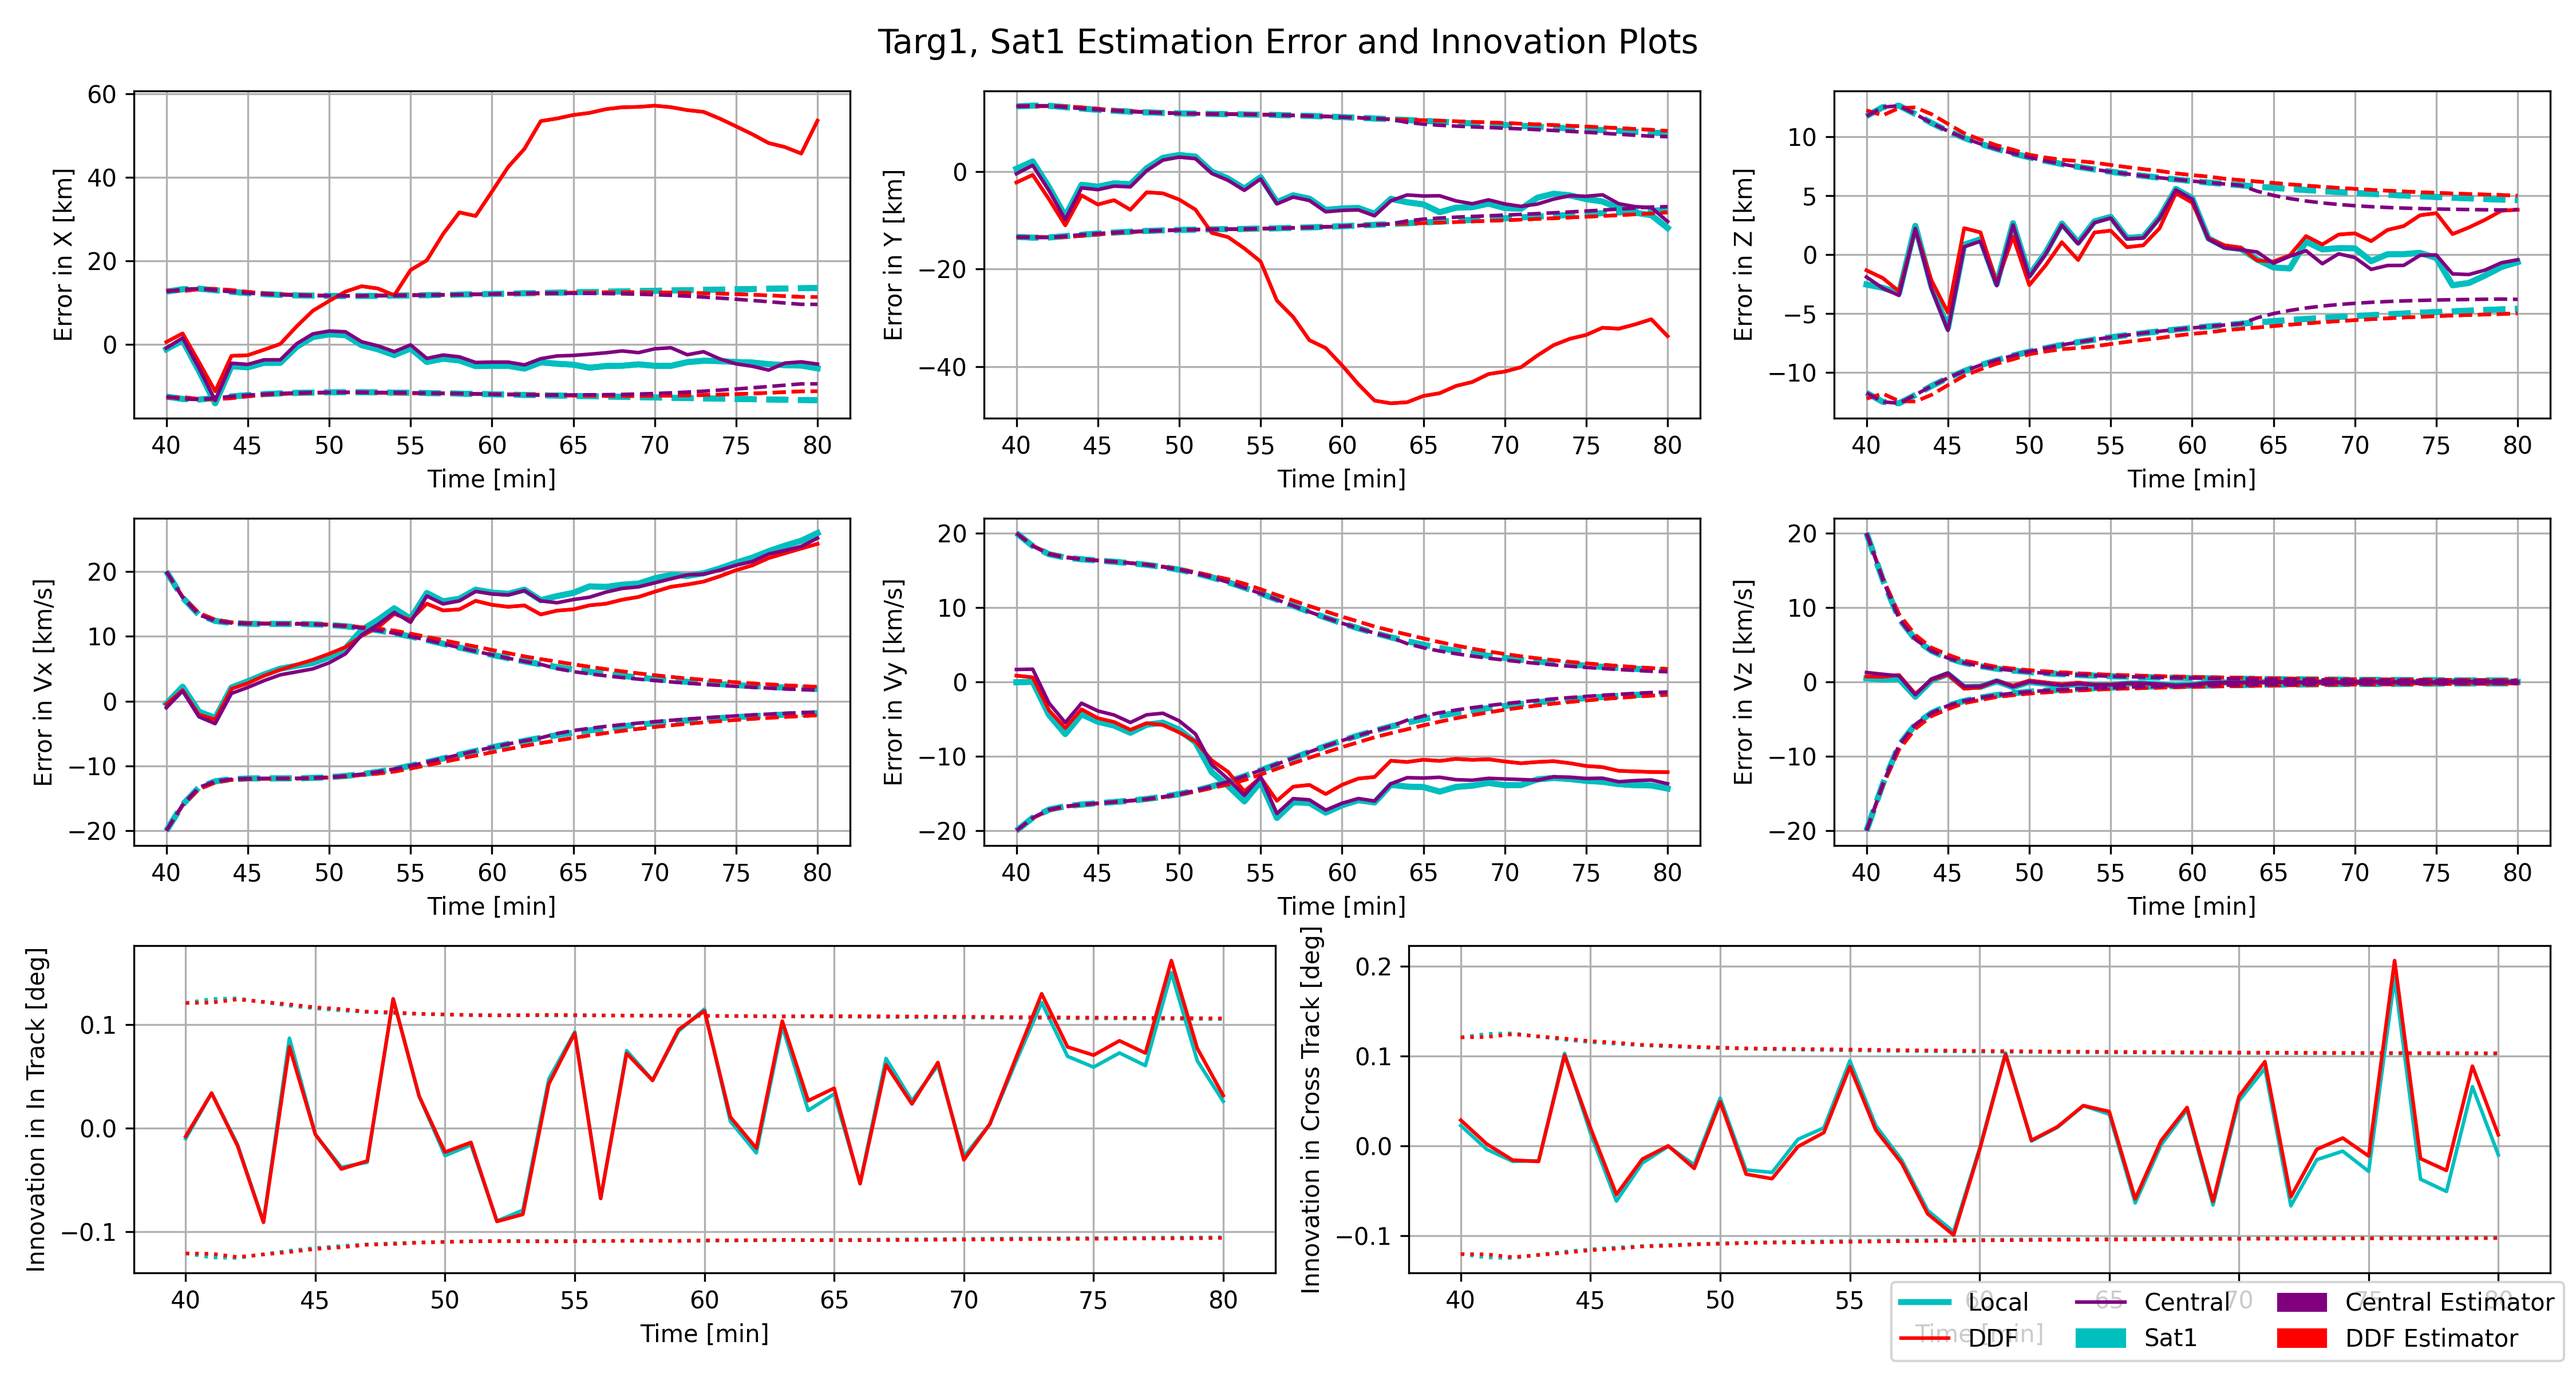
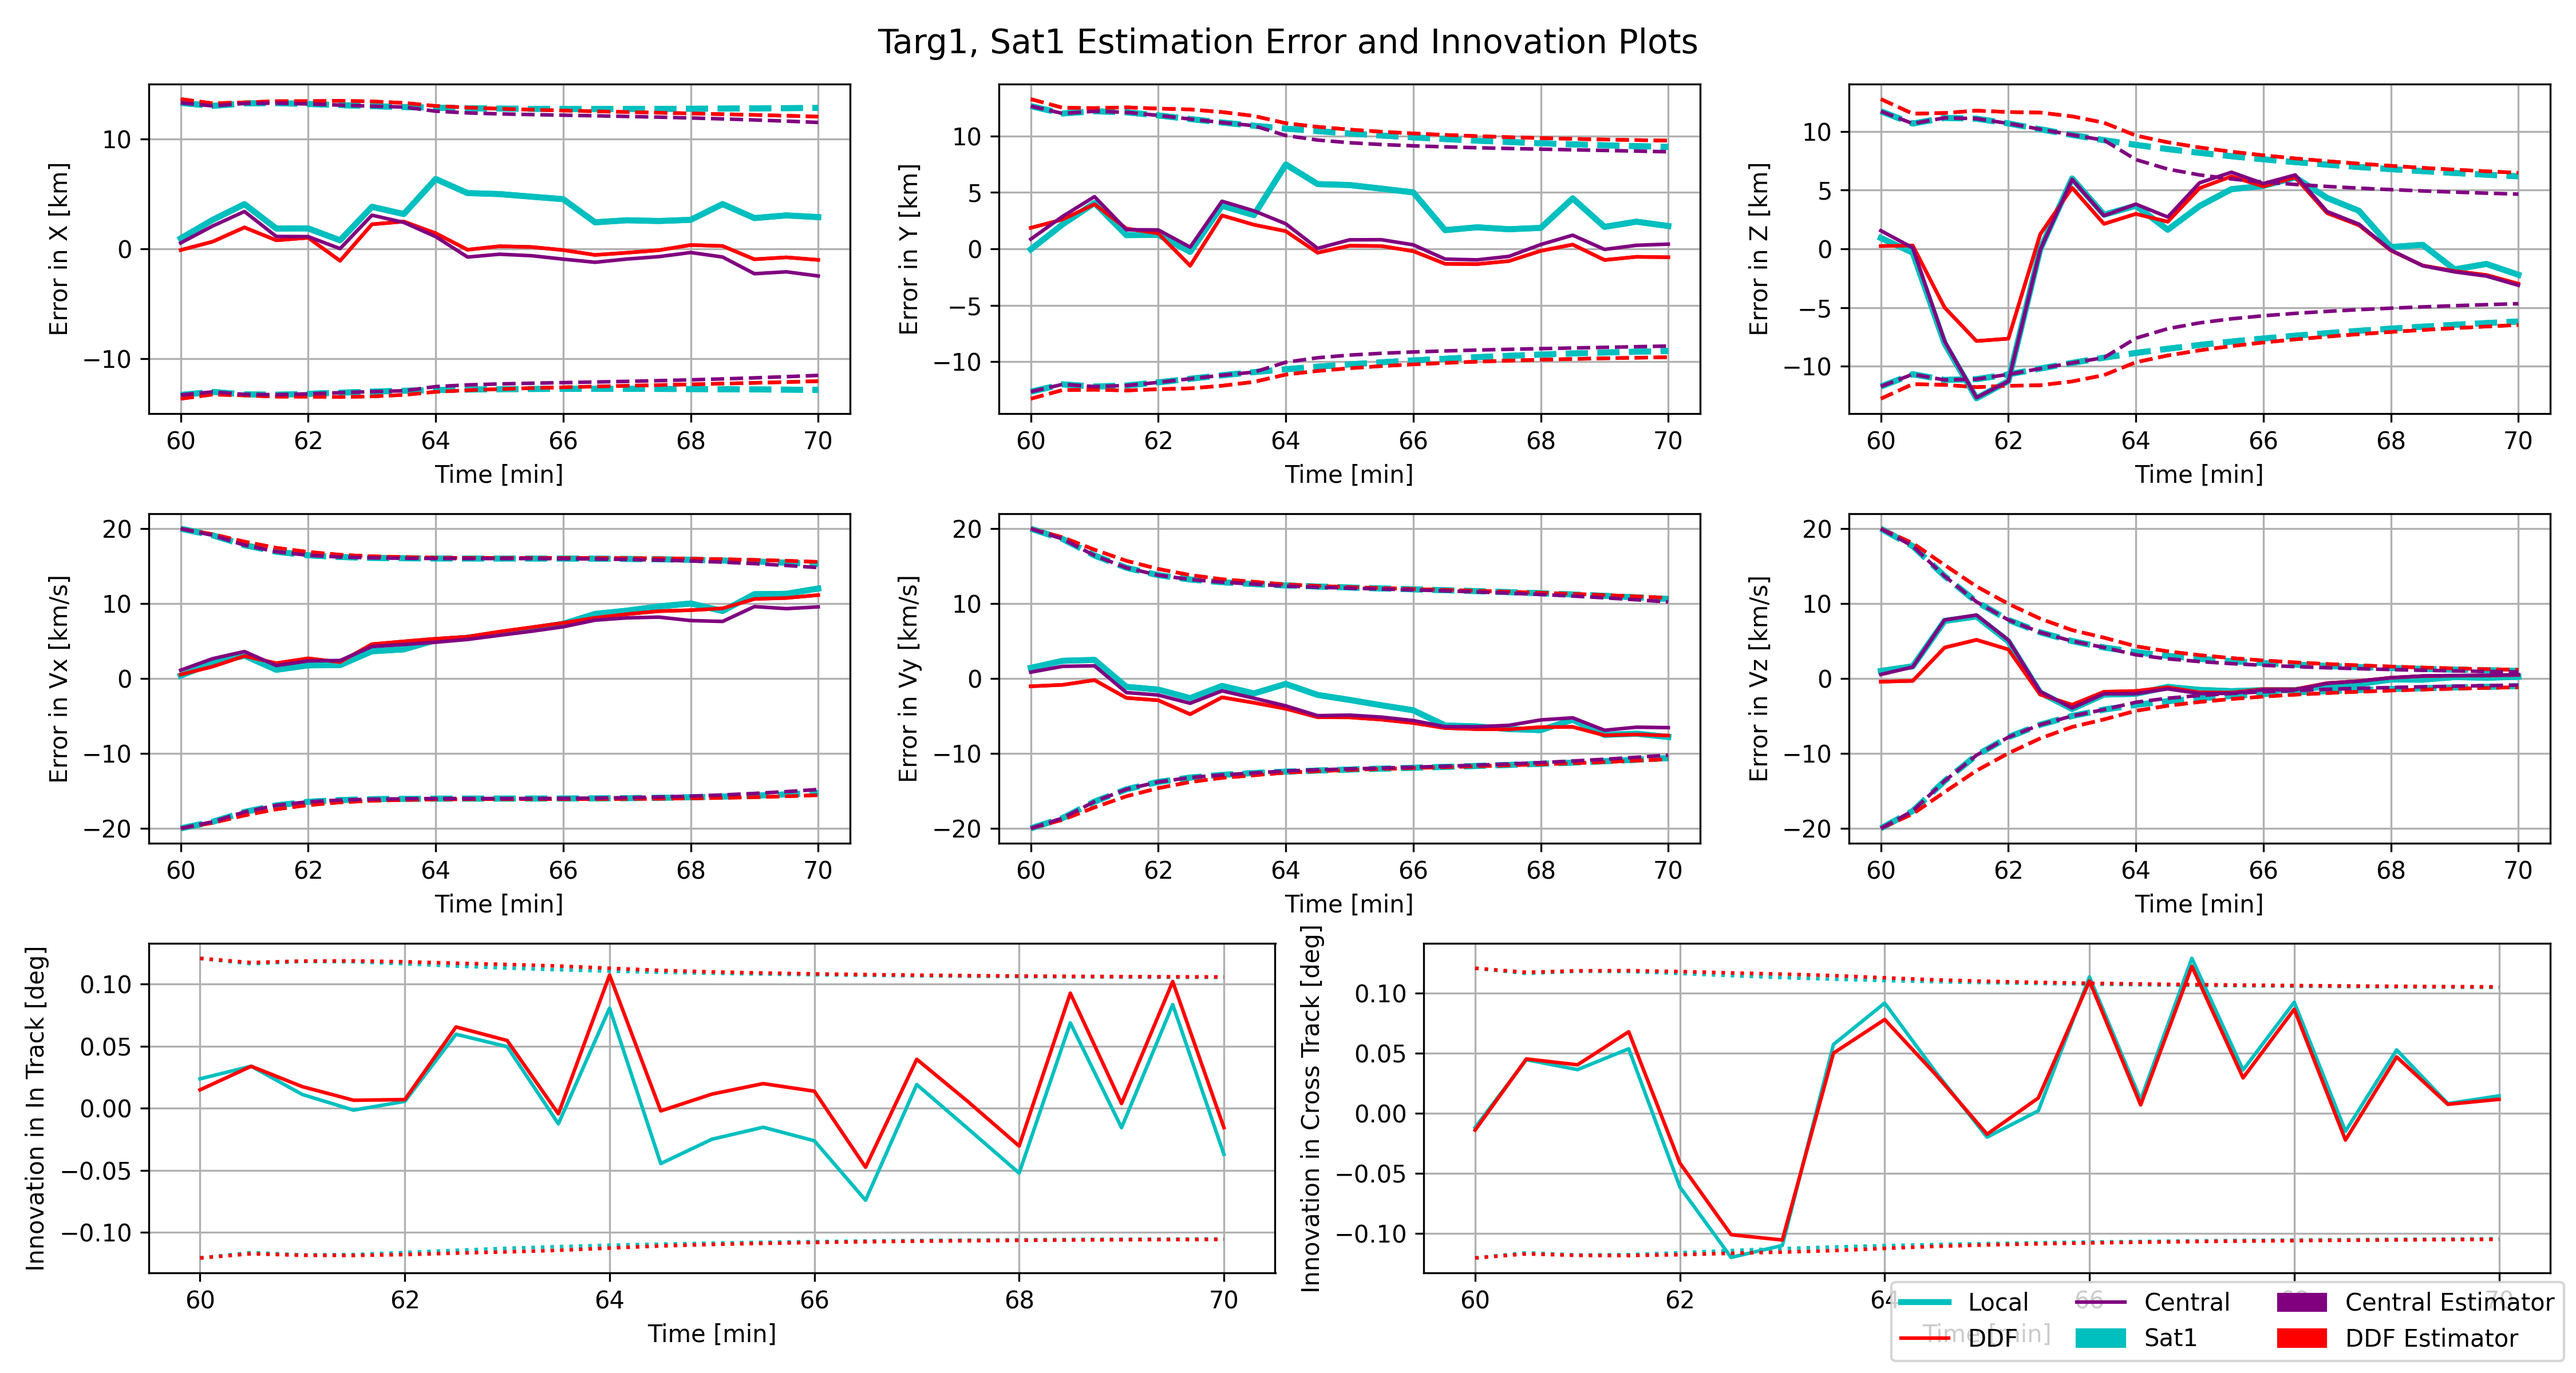
Stashed

diff --git a/phase1/environmentClass.py b/phase1/environmentClass.py
@@ -62,9 +62,6 @@ class environment:
         # Collect individual data measurements for satellites and then do data fusion
             self.data_fusion(t_d)
 
-        # Collect individual data measurements for satellites and then do data fusion
-            self.data_fusion(t_d)
-
             if savePlot:
             # Update the plot environment
                 self.plot()
@@ -127,10 +124,11 @@ class environment:
                         if satTime >= neighborTime:
                             self.comms.send_measurement(sat, neighbor, sat.ddfEstimator.estHist[targ.targetID][satTime], sat.ddfEstimator.covarianceHist[targ.targetID][satTime], targ.targetID, satTime)
 
-                    # Now, each satellite will perform covariance intersection on the measurements sent to it
-                    for sat in self.sats:
-                        # For each satellite, perform CI on the measurements it received
-                        sat.ddfEstimator.CI(sat, self.comms.G.nodes[sat], targ.targetID)
+            
+            # Now, each satellite will perform covariance intersection on the measurements sent to it for this target
+            for sat in self.sats:
+            # For each satellite, perform CI on the measurements it received
+                sat.ddfEstimator.CI(sat, self.comms.G.nodes[sat], targ.targetID)
 
 # Propagate the satellites over the time step  
     def propagate(self, time_step):
@@ -154,9 +152,6 @@ class environment:
             # Update the history of the target, time and xyz position and velocity [x xdot y ydot z zdot]
             targ.hist[targ.time] = np.array([targ.pos[0], targ.vel[0], targ.pos[1], targ.vel[1], targ.pos[2], targ.vel[2]])
 
-
-        collectedFlag = np.zeros(np.size(self.sats))
-        satNum = 0
         # Propagate the satellites
         for sat in self.sats:
             

diff --git a/phase1/main.py b/phase1/main.py
@@ -127,10 +127,10 @@ def plot_NEES_NIS(simData):
 
 if __name__ == "__main__":
     # Vector of time for simulation:
-    time_vec = np.linspace(40, 80, 41) * u.minute
+    time_vec = np.linspace(63, 73,  11) * u.minute
     
     env = create_environment()
-    env.simulate(time_vec, savePlot = True, saveName = "PDR_DDF", showSim = False)
+    env.simulate(time_vec, savePlot = True, saveName = "PDR_DDF", showSim = True)
         
     # Plot the NEES and NIS results:
     # plot_NEES_NIS(simData)

diff --git a/phase1/satelliteClass.py b/phase1/satelliteClass.py
@@ -66,6 +66,7 @@ class satellite:
 
                 # Update the local filters
                 self.update_local_filters(measurement, target, self.time)
+                print('Satellite:', self.name, 'has collected a measurement for target:', target.name, 'at time:', self.time)
                                                             
         return collectedFlag
 
